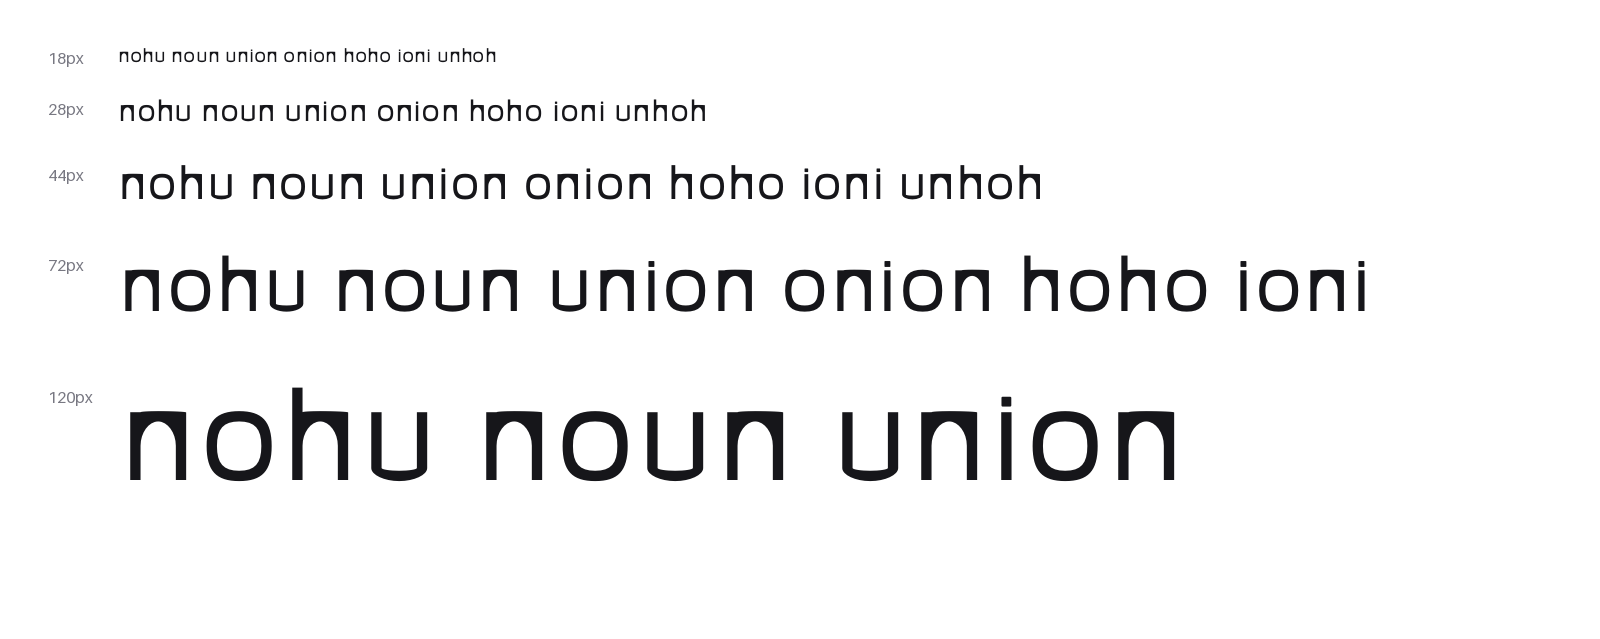
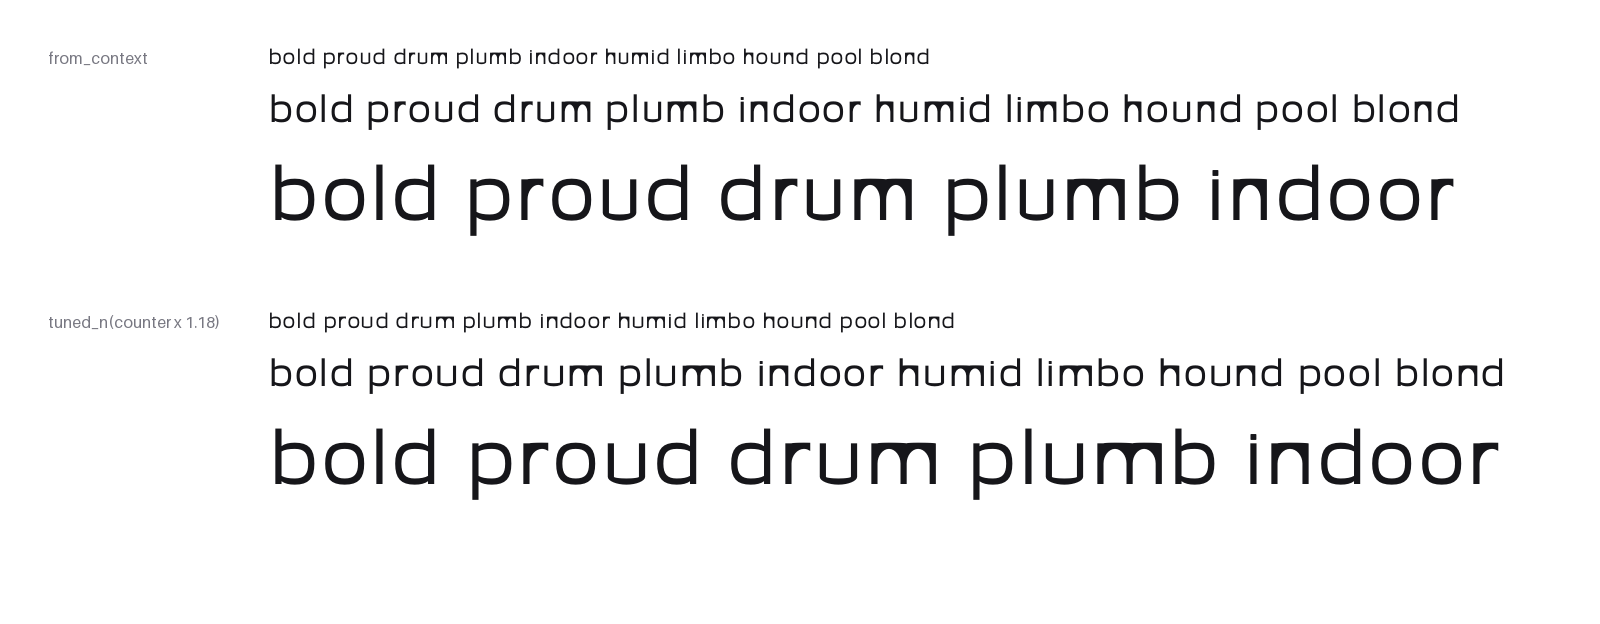
docs(examples): build the 12-letter family from Controls
first_font now derives b d h i l m n o p q r u from the control sheet and
proofs a second font with one tuned_n change next to the original.

diff --git a/examples/first_font/build_font.py b/examples/first_font/build_font.py
@@ -1,11 +1,11 @@
 """From proportions to an installable font file — the designer's order.
 
 1. Brief / proportions   → DesignContext
-2. Control glyphs        → build_n, build_o
-3. Related forms         → h_from_n, u_from_n, i
+2. Control glyphs        → Controls (the n and o design records)
+3. Related forms         → Controls.build_all(): h m r u i l from n, b d p q from o + n
 4. Spacing               → optical sidebearings per glyph
 5. Kerning               → class kerning fitted to the n/o rhythm
-6. Font                  → Font (names, cmap, metrics, zones, kerning)
+6. Font                  → Font (names, cmap, metrics, zones, anchors, kerning)
 7. Build + proof         → OTF/TTF, then a proof rendered from the binary
 """
 
@@ -19,16 +19,11 @@ from typekernel.compile import build_font
 from typekernel.font import Font
 from typekernel.optics.space import suggest_sidebearings_optical, with_sidebearings
 from typekernel.parts import (
-    ComposedGlyph,
+    Controls,
     DesignContext,
     KernClass,
     auto_class_kern,
-    build_i,
-    build_n,
-    build_o,
-    h_from_n,
     rhythm_from_control_glyphs,
-    u_from_n,
 )
 
 HERE = Path(__file__).resolve().parent
@@ -36,51 +31,46 @@ OUT_DIR = HERE / "out"
 DOCS_IMG = HERE.parents[1] / "docs" / "images"
 
 FAMILY = "Typekernel First"
-PROOF_TEXT = "nohu noun union onion hoho ioni unhoh"
+PROOF_TEXT = "bold proud drum plumb indoor humid limbo hound pool blond"
 
 
-def design(ctx: DesignContext) -> Font:
-    n = build_n(ctx)
-    o = build_o(ctx)
-    drawn: dict[str, ComposedGlyph] = {
-        "n": n,
-        "o": o,
-        "h": h_from_n(n),
-        "u": u_from_n(n),
-        "i": build_i(ctx),
-    }
+def design(controls: Controls, family: str = FAMILY) -> Font:
+    ctx = controls.context
+    drawn = controls.build_all()
     spaced = {
         ch: with_sidebearings(g, *suggest_sidebearings_optical(g, ctx))
         for ch, g in drawn.items()
     }
 
-    classes = (KernClass("straight", ("n", "h", "i", "u")), KernClass("round", ("o",)))
+    classes = (KernClass("straight", ("n", "h", "m", "i", "l", "u")), KernClass("round", ("o",)))
     rhythm = rhythm_from_control_glyphs(spaced["n"], spaced["o"])
     kerning = auto_class_kern(spaced, classes, target=rhythm)
 
-    font = Font.from_context(ctx, FAMILY, space_width=spaced["n"].advance * 0.45)
+    font = Font.from_context(ctx, family, space_width=spaced["n"].advance * 0.45)
     font.add_chars(spaced)
     font.add_class_kern_table(kerning)
     return font
 
 
-def proof(otf: Path, out: Path) -> Path:
-    width, margin = 1600, 48
-    sizes = (18, 28, 44, 72, 120)
+def proof(rows: list[tuple[str, Path]], out: Path) -> Path:
+    width, margin, label_w = 1600, 48, 220
+    sizes = (20, 36, 72)
     label_font = ImageFont.load_default(size=16)
-    height = margin * 2 + sum(int(s * 1.5) + 24 for s in sizes)
-    img = Image.new("RGB", (width, height), (255, 255, 255))
+    row_h = sum(int(s * 1.5) + 16 for s in sizes) + 24
+    img = Image.new("RGB", (width, margin * 2 + row_h * len(rows)), (255, 255, 255))
     draw = ImageDraw.Draw(img)
     y = margin
-    x = margin + 70
-    for size in sizes:
-        face = ImageFont.truetype(str(otf), size)
-        words = PROOF_TEXT.split()
-        while len(words) > 1 and draw.textlength(" ".join(words), font=face) > width - x - margin:
-            words.pop()
-        draw.text((margin, y), f"{size}px", font=label_font, fill=(120, 120, 130))
-        draw.text((x, y), " ".join(words), font=face, fill=(22, 22, 26), features=["kern"])
-        y += int(size * 1.5) + 24
+    x = margin + label_w
+    for label, binary in rows:
+        draw.text((margin, y), label, font=label_font, fill=(120, 120, 130))
+        for size in sizes:
+            face = ImageFont.truetype(str(binary), size)
+            words = PROOF_TEXT.split()
+            while len(words) > 1 and draw.textlength(" ".join(words), font=face) > width - x - margin:
+                words.pop()
+            draw.text((x, y), " ".join(words), font=face, fill=(22, 22, 26), features=["kern"])
+            y += int(size * 1.5) + 16
+        y += 24
     out.parent.mkdir(parents=True, exist_ok=True)
     img.save(out)
     return out
@@ -88,11 +78,22 @@ def proof(otf: Path, out: Path) -> Path:
 
 def main() -> None:
     ctx = DesignContext.code_clear()
-    font = design(ctx)
-    result = build_font(font, OUT_DIR)
-    for fmt, path in result.binaries.items():
+    controls = Controls.from_context(ctx)
+    regular = build_font(design(controls), OUT_DIR)
+    for fmt, path in regular.binaries.items():
         print(f"{fmt}: {path}")
-    png = proof(result.binaries["otf"], OUT_DIR / "proof.png")
+
+    # One change on the control sheet: a wider n counter, carried by h m r u.
+    wide = controls.tuned_n(counter=controls.n.counter * 1.18)
+    variant = build_font(design(wide, f"{FAMILY} Wide"), OUT_DIR / "variant", formats=("otf",))
+
+    png = proof(
+        [
+            ("from_context", regular.binaries["otf"]),
+            ("tuned_n(counter x 1.18)", variant.binaries["otf"]),
+        ],
+        OUT_DIR / "proof.png",
+    )
     DOCS_IMG.mkdir(parents=True, exist_ok=True)
     (DOCS_IMG / "first-font-proof.png").write_bytes(png.read_bytes())
     print(f"proof: {png}")

diff --git a/examples/first_font/README.md b/examples/first_font/README.md
@@ -1,6 +1,8 @@
 # 示例：从比例到一个能安装的字体文件
 
-按设计师的顺序走一遍：比例 → 控制字 `n` / `o` → 派生 `h` / `u` / `i` → 光学侧距 → 类字偶 → `Font` → OTF / TTF → 用编译出的字体文件排校样。
+按设计师的顺序走一遍：比例 → 控制字 `n` / `o` → 派生 `h m r u i l`（来自 `n`）和 `b d p q`（来自 `o` 的碗 + `n` 的竖干）→ 光学侧距 → 类字偶 → `Font` → OTF / TTF → 用编译出的字体文件排校样。
+
+校样第二行只改了控制表里的一处：`tuned_n(counter=…)`。`n` 家族的字一起变宽，`o` 家族不动。
 
 ## 跑起来
 
@@ -17,13 +19,15 @@ python examples/first_font/build_font.py
 | `TypekernelFirst-Regular.otf` | CFF（三次曲线），可直接双击安装 |
 | `TypekernelFirst-Regular.ttf` | TrueType（编译边界转二次） |
 | `TypekernelFirst-Regular.ufo` | 中间源，可用 Glyphs / FontForge 打开检查 |
+| `variant/` | 改过控制表的对照字体 |
 | `*.manifest.json` | 工具版本记录 |
-| `proof.png` | 用 **编译后的 OTF** 排的瀑布校样 |
+| `proof.png` | 用 **编译后的 OTF** 排的校样 |
 
 ## 用了哪些 API
 
+- `typekernel.parts.Controls` — 控制表：`DesignContext` + `n` / `o` 的设计记录；`tuned_n` / `tuned_o` 改一处，`build_all()` 整族重新派生
 - `typekernel.font.Font.from_context` — 字族信息、竖直度量、对齐区（blue zones）、`.notdef`、`space` 都从 `DesignContext` 来
-- `Font.add_chars` — `{字符: ComposedGlyph}`，自动取 AGL 字形名并映射码位、统一轮廓绕向
+- `Font.add_chars` — `{字符: ComposedGlyph}`，自动取 AGL 字形名、映射码位、统一轮廓绕向，并带上控制字的锚点
 - `Font.add_class_kern_table` — 类字偶 → UFO `public.kern1/kern2` 组 → GPOS `kern`
 - `typekernel.compile.build_font` — 校验 → UFO → OTF + TTF
 

diff --git a/README.md b/README.md
@@ -47,12 +47,12 @@ geo-kernel  →  type-semantics  →  compile (fontTools / UFO / designspace)
 ```python
 from typekernel.compile import build_font
 from typekernel.font import Font
-from typekernel.parts import DesignContext, build_n, build_o, h_from_n
+from typekernel.parts import Controls, DesignContext
 
 ctx = DesignContext.code_clear()
-n = build_n(ctx)
+controls = Controls.from_context(ctx).tuned_n(counter=290)  # 控制表：改 n，h m r u 跟着变
 font = Font.from_context(ctx, "My Sans")          # 含 .notdef、space、度量、对齐区
-font.add_chars({"n": n, "o": build_o(ctx), "h": h_from_n(n)})
+font.add_chars(controls.build_all())              # b d h i l m n o p q r u
 build_font(font, "out/")                          # MySans-Regular.ufo / .otf / .ttf
 ```
 
